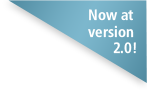
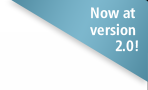
changes to project front

diff --git a/sites/all/themes/scholar_project/scholar-project.css b/sites/all/themes/scholar_project/scholar-project.css
@@ -1,16 +1,18 @@
 body {
-    background: url(images/body-bg.png) repeat-x #fff;
+    background: #efefef;
     color:#313030;
     font:.9em/165% arial, helvetica, sans-serif;
-    padding-top: 26px;
     }
 
+#wrapper {
+  background: url(images/wrapper-bg.png) repeat-x #efefef;
+  padding-top: 26px;
+  }
 
 #container {
-    width: 982px;
+    width: 995px;
     margin: 0 auto;
     }
-
 
 body.section-user {
   background: #444;
@@ -106,7 +108,7 @@ div.form-item {
 /* HEADER ELEMENTS */
 
 #header {
-    height: 113px;
+    height: 105px;
     }
 
 #header-wrapper {
@@ -125,17 +127,17 @@ div.form-item {
   }
 
 #header h1 {
-  width: 329px;
-  height: 77px;
-  background: url(images/project-logo.png) no-repeat;
+  width: 223px;
+  height: 76px;
+  background: url(images/scholars-at-harvard-logo.png) no-repeat;
   text-indent: -999em;
-  margin-left: 4px
+  margin-left: 13px
   }
 
 #header h1 a, #header h1 a:visited {
   display:block;
-  width: 329px;
-  height: 77px;
+  width: 223px;
+  height: 76px;
   }
 
 #header h2 {
@@ -160,7 +162,7 @@ ul#top-front li {
   }
 
 ul#top-front li a, ul#top-front li a:visited {
-  color: #000;
+  color: #FFF;
   }
 
 ul#top-front li a:hover {
@@ -193,10 +195,14 @@ ul#top-front li#get-form a:hover {
 
 /* Content Area */
 
+#content-row-1, #content-row-2 {
+  width: 981px;
+  padding: 0 7px;
+  }
+
 #content-row-1 {
-  background: url(images/front-row1-bg.png) no-repeat;
-  width: 982px;
-  height: 418px;
+  background: url(images/contain.png) no-repeat;
+  height: 416px;
   padding-top: 1px;
   position: relative;
   }
@@ -215,8 +221,8 @@ ul#top-front li#get-form a:hover {
   background: url(images/triangle-video-tutorial.png) no-repeat transparent;
   background: url(images/version-2.png) no-repeat transparent;
   position: absolute;
-  top: 1px;
-  right: 1px;
+  top: 0px;
+  right: 8px;
   text-indent: -999em;
   }
 
@@ -241,17 +247,19 @@ ul#top-front li#get-form a:hover {
   }
 
 #content-row-2 {
-  background:#e1e1e1;
-  height: 349px;
+  background: url(images/contain.png) no-repeat 0 100%;
+  height: 348px;
+  padding-bottom: 26px;
   }
 
 #content-row-2 .featureblock {
   float: left;
   width:196px;
   height: 295px;
-  margin:1px 0 0 1px;
+  margin: 0;
   background-color: #fff;
   padding: 26px 24px;
+  border: 1px solid #BCBCBC;
   }
 
 #content-row-2 .featureblock h3, #content-row-2 .featureblock p {
@@ -261,40 +269,46 @@ ul#top-front li#get-form a:hover {
   }
 
 #feature-academic-content {
-  background:url(images/front-row2-create-anything.jpg)
+  background:url(images/front-row2-create-anything.jpg);
   }
 
-#feature-biblio {
-  background:url(images/front-row2-biblio.jpg)
+#content-row-2 #feature-biblio {
+  background:url(images/front-row2-biblio.jpg);
+  border-left: none;
   }
 
-#feature-look-feel {
-  background:url(images/front-row2-lookfeel.jpg)
+#content-row-2 #feature-look-feel {
+  background:url(images/front-row2-lookfeel.jpg);
+  border-left: none;
   }
 
-#feature-collaborate {
-  background:url(images/front-row2-collaborate.jpg)
+#content-row-2 #feature-collaborate {
+  background:url(images/front-row2-collaborate.jpg);
+  border-left: none;
+  }
+
+
+#block-views-iqss_project_sites-block_2 {
+  background:url(images/featured-top.png) no-repeat 0 0;
+  }
+
+#block-views-iqss_project_sites-block_2 ul, #block-views-iqss_project_sites-block_2 .more-link {
+  background:url(images/featured-main.png);
+  width: 100%;
+  height: 253px;
   }
 
 
 #block-views-iqss_project_sites-block_2, #footer {
-  background: url(images/front-row3-bg.png) repeat-x #fefefe;
-  min-height: 500px;
   position:relative;
-  border: 1px solid #e1e1e1;
-  border-top: none;
-  border-bottom: none;
-  line-height: 110%;
   }
 
 
 #block-views-iqss_project_sites-block_2 h3 {
-  background: url(images/triangle-featured.png) no-repeat transparent;
-  width: 57px;
-  height: 57px;
+  background: transparent;
   text-indent: -999em;
-  float:left;
-  margin: 0 0 0 -1px;
+  display:none;
+  margin: 0;
   }
 
 #block-views-iqss_project_sites-block_2 .views-exposed-form {
@@ -302,7 +316,7 @@ ul#top-front li#get-form a:hover {
   height: 40px;
   background: url(images/search-person.png) no-repeat 100% 0 transparent;
   float:right;
-  margin: 5px 18px 10px 0;
+  margin: 13px 28px 17px 0;
   position:relative;
   }
 
@@ -367,7 +381,7 @@ ul#top-front li#get-form a:hover {
 #block-views-iqss_project_sites-block_2 .views-row {
   float: left;
   width: 134px;
-  margin-left: 24px;
+  margin-left: 30px;
   clear: none;
   font-size: 13px;
   }
@@ -401,30 +415,38 @@ ul#top-front li#get-form a:hover {
   }
 
 
+#block-views-iqss_project_sites-block_2 .views-admin-links ul{
+  background: transparent;
+  height: auto;
+  }
+
 #block-views-iqss_project_sites-block_2 .more-link {
-  text-indent: -999em;
-  float: right;
-  margin-right: 18px;
-  text-align: left;
+  text-align: right;
+  background-position: 0 100%;
+  padding-bottom: 30px;
+  height: auto;
   }
 
 #block-views-iqss_project_sites-block_2 .more-link a {
-  display:block;
-  width: 67px;
-  height: 32px;
-  background: url(images/more.png) no-repeat transparent;
-  cursor: pointer;
+  background: url(images/arrow-black.png) no-repeat 100% 50% #fff;
+  padding-right: 15px;
+  color: #000;
+  text-transform: capitalize;
+  font-weight: bold;
+  margin-right: 28px;
   }
 
 
 #footer {
-  background: #fefefe;
-  min-height: 100px;
   }
 
 #footer a, #footer a:visited {
   color: #1A708F;
   text-decoration: underline;
+  }
+
+p.copy {
+  width: auto;
   }
 
 /* Different Tables for admin use */
